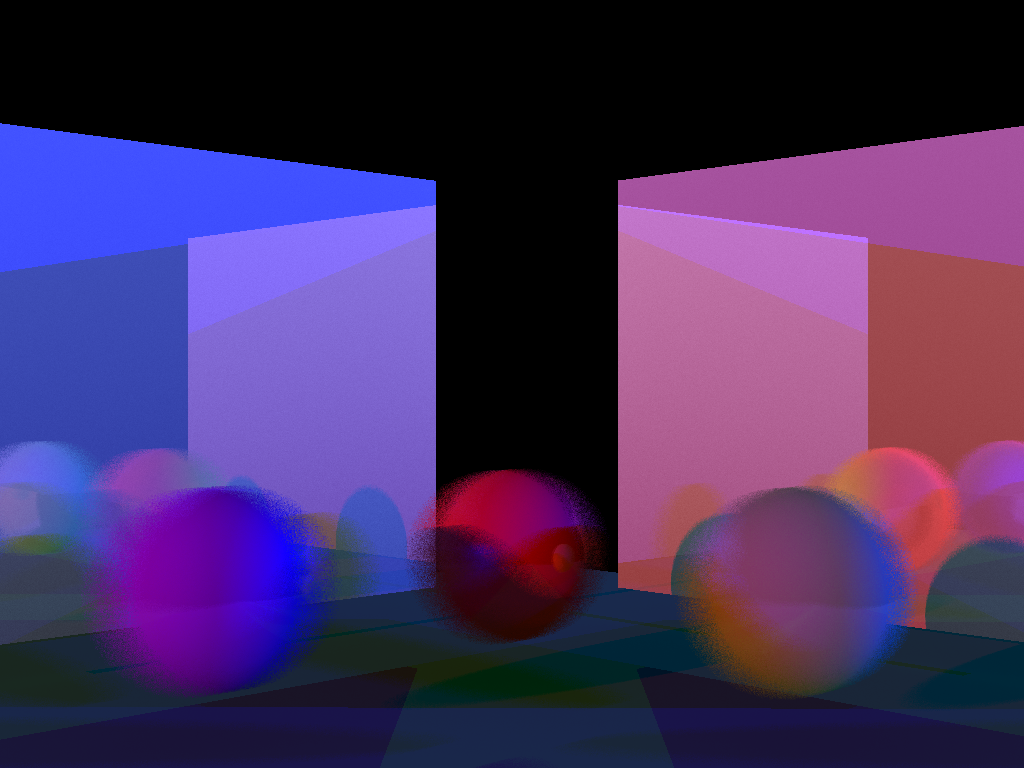
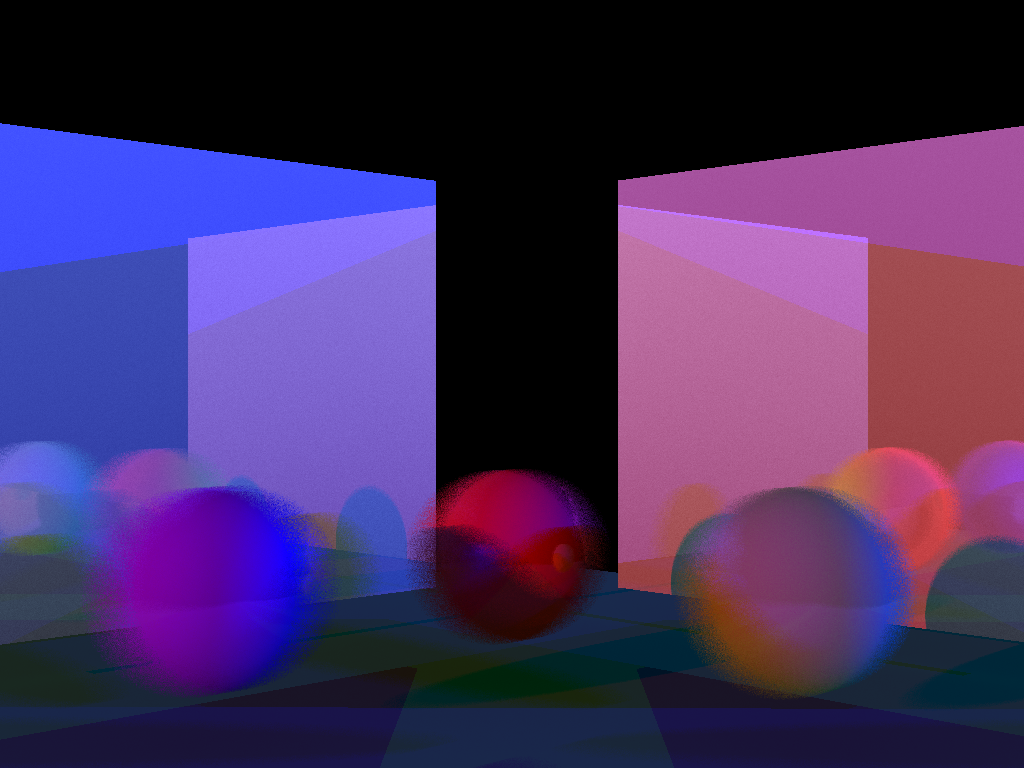
added occlusion to config

diff --git a/src/raytracer/raytracer.cpp b/src/raytracer/raytracer.cpp
@@ -157,7 +157,7 @@ void RayTracer::renderOneScene(RGBA *imageData, const RayTraceScene &scene) {
                     Intersection intr = result.value();
 
                     glm::vec4 position = {wEye[0] + intr.t * wDirection[0], wEye[1] + intr.t * wDirection[1], wEye[2] + intr.t * wDirection[2], 1};
-                    float occlusion = calcOcclusion(position, intr.normal, shapes, time);
+                    float occlusion = m_config.enableOcclusion ? calcOcclusion(position, intr.normal, shapes, time) : 1.0f;
 
                     pixelVal += ph.phong(
                         position,
@@ -264,7 +264,7 @@ glm::vec3 RayTracer::hemisphereSample(glm::vec3 normal) {
 }
 
 float RayTracer::calcOcclusion(glm::vec4 surfacePos, glm::vec3 surfaceNormal, std::vector<RenderShapeData> shapes, float time) {
-    int numSamples = 128;
+    int numSamples = 64;
     float occlusion = 0.0f;
 
     for (int i = 0; i < numSamples; ++i) {

diff --git a/src/main.cpp b/src/main.cpp
@@ -59,6 +59,7 @@ int main(int argc, char *argv[])
     rtConfig.cameraMovement      = settings.value("Feature/camera-movement").toBool();
     rtConfig.maxRecursiveDepth   = settings.value("Settings/maximum-recursive-depth").toInt();
     rtConfig.onlyRenderNormals   = settings.value("Settings/only-render-normals").toBool();
+    rtConfig.enableOcclusion     = settings.value("Settings/occlusion").toBool();
 
     RayTraceScene rtScene{ width, height, metaData };
     RayTracer raytracer{ rtConfig, image, oImagePath};

diff --git a/src/raytracer/raytracer.h b/src/raytracer/raytracer.h
@@ -23,6 +23,7 @@ public:
         int maxRecursiveDepth    = 4;
         bool onlyRenderNormals   = false;
         bool cameraMovement      = false;
+        bool enableOcclusion     = false;
     };
 
 public:
